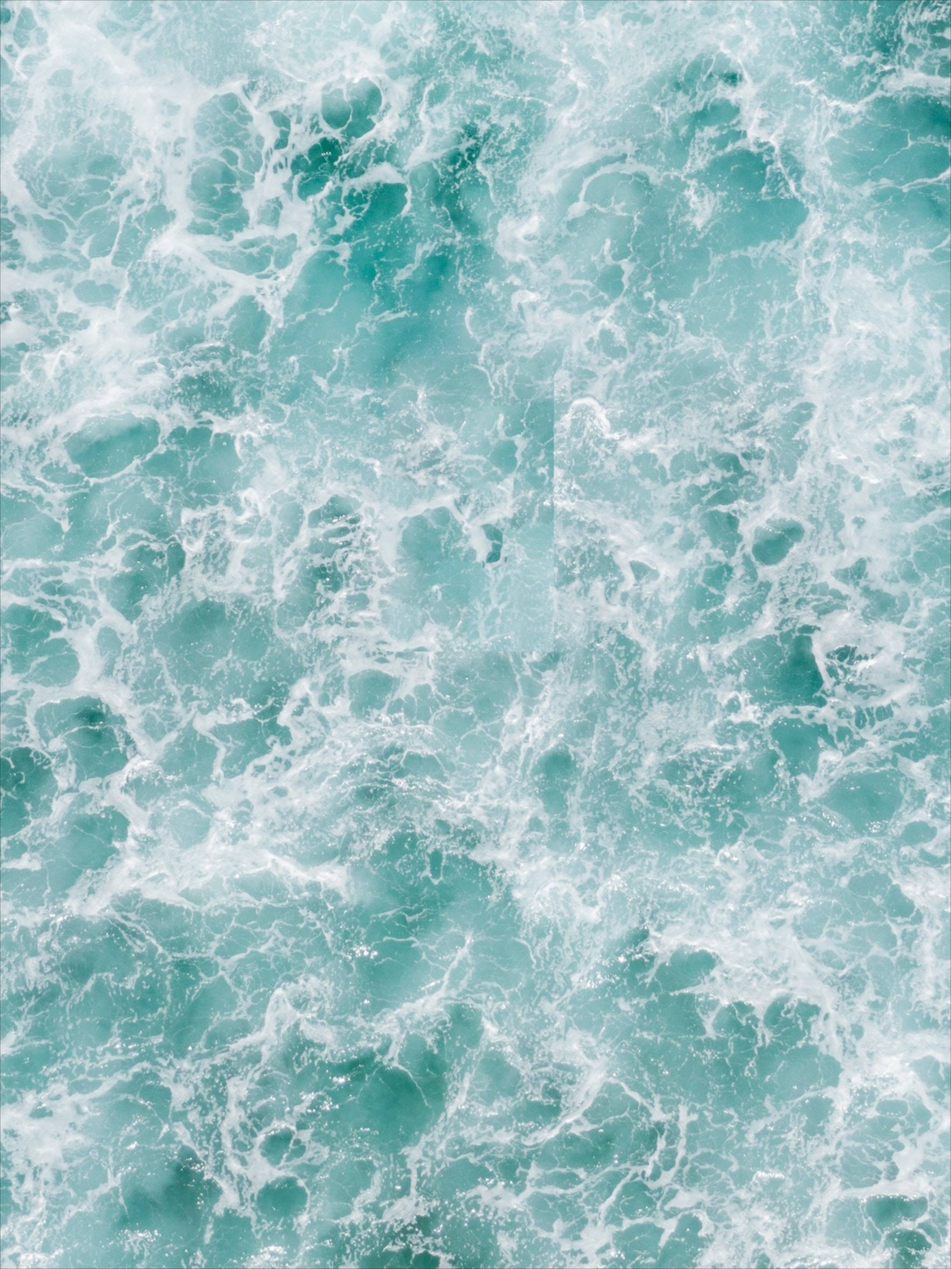
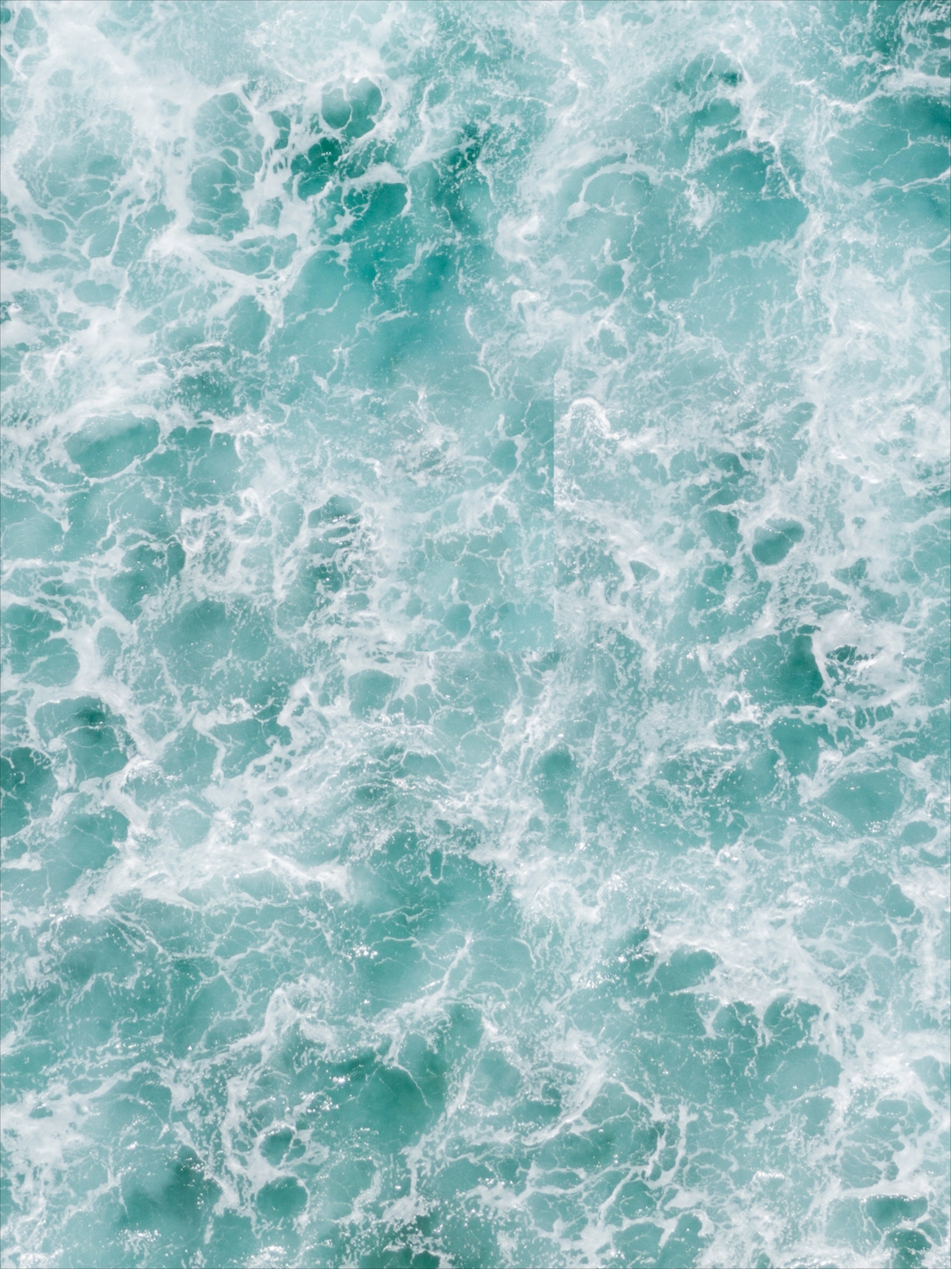
results updated - final test in ubuntu

Changed region(s): [[0.4051, 0.372, 0.5921, 0.527]]

diff --git a/HW3/q3.py b/HW3/q3.py
@@ -2,11 +2,10 @@ import numpy as np
 import cv2 
 import utils as utl
 
-
 #------------------------ FUNCTIONS -------------------------- #
 def removeHolesFromResult(match_result, hole_indices, extra_indices):
     "instead of holes in matching result, fills with 'inf' value to avoid selecting them"
-    "hole_indices: dictionary of holes, each in the format of [left, right, top, bottom]"
+    "hole_indices: dictionary of holes, each in the format of [top, bottom, left, right]"
     "extra_indices: other places that I ignore to enhance performance"
     M, N = match_result.shape
     for i in range(len(hole_indices)):
@@ -123,10 +122,14 @@ def updateTexture(syn_tex, tex, M_p, N_p, x_s, y_s, x_thr, y_thr,
         if not flag:
             syn_tex[x_s:x_s+M_p, y_s+j] = patch[:, j]
 
-def runQ3(img_name, holes, extra_indices, x_thr, y_thr, M_p, N_p, random_select):
+def runQ3(img_name, img_hole_name, holes, extra_indices, x_thr, y_thr, M_p, N_p, random_select):
     "runs complete algorithm for each image"
     img = cv2.imread(img_name, cv2.IMREAD_COLOR)
     print("Running algorithm for {}".format(img_name))
+    # put holes in img:
+    for i in range(len(holes)):
+        img[holes[i][0]:holes[i][1], holes[i][2]:holes[i][3], :] = 0
+    cv2.imwrite(img_hole_name, img)
     for k in range(len(holes)):
     # hole to be filled
         img_hole = np.copy(img[holes[k][0]-M_p:holes[k][1]+M_p, holes[k][2]-N_p: holes[k][3]+N_p, :])
@@ -162,7 +165,7 @@ y_thr = 10
 M_p, N_p = 40, 40
 random_select = 1
 
-img_filled = runQ3('im03-hole.jpg', holes, extra_indices, x_thr, y_thr, M_p, N_p, random_select)
+img_filled = runQ3('im03.jpg', 'im03-hole.jpg', holes, extra_indices, x_thr, y_thr, M_p, N_p, random_select)
 cv2.imwrite('res15.jpg', img_filled)
 
 #im04 holes border:
@@ -174,5 +177,5 @@ y_thr = 25
 M_p, N_p = 100, 100
 random_select = 5
 
-img_filled = runQ3('im04-hole.jpg', holes, extra_indices, x_thr, y_thr, M_p, N_p, random_select)
+img_filled = runQ3('im04.jpg', 'im04-hole.jpg', holes, extra_indices, x_thr, y_thr, M_p, N_p, random_select)
 cv2.imwrite('res16.jpg', img_filled)

diff --git a/HW3/q1.py b/HW3/q1.py
@@ -79,7 +79,7 @@ def convertToXY(rho, theta, M, N):
         # second quarter
         pt1 = np.array([(rho-sin_theta) / cos_theta, 1])
         pt2 = np.array([-1, (rho+cos_theta) / sin_theta])
-        
+ 
     else:
         print("Not found!")        
 
@@ -329,8 +329,8 @@ hough_space2 = utl.scaleIntensities(voting_mat2)
 cv2.imwrite('res04-hough-space.jpg', hough_space2)
 
 print("Drawing found lines in images and saving ...")
-max_indices1 = utl.findLocalMax(voting_mat1, 0.47 * np.amax(voting_mat1), 0.1)
-max_indices2 = utl.findLocalMax(voting_mat2, 0.47 * np.amax(voting_mat2), 0.1)
+max_indices1 = utl.findLocalMax(voting_mat1, 0.47 * np.amax(voting_mat1), 0.05)
+max_indices2 = utl.findLocalMax(voting_mat2, 0.47 * np.amax(voting_mat2), 0.05)
 
 rhos1 = max_indices1[0, :]
 angles1 = max_indices1[1, :]

diff --git a/HW3/q2.py b/HW3/q2.py
@@ -158,7 +158,7 @@ def updateTexture(syn_tex, tex, M_p, N_p, M_i, N_i,
 
 #/ ------------------- MAIN --------------- /#
 
-texture = cv2.imread('./texture06.jpg', cv2.IMREAD_COLOR)
+texture = cv2.imread('./texture14.jpg', cv2.IMREAD_COLOR)
 print("Image loaded successfully, starting algorithm ...")
 # PARAMETERS:
 
